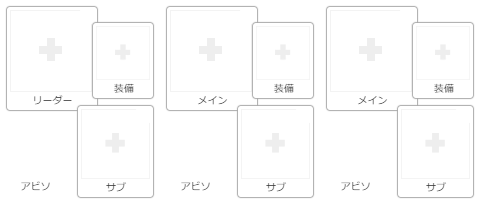
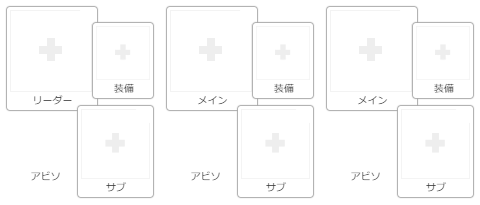
finished party planner

Changed region(s): [[0.7188, 0.8195, 0.8125, 0.9366], [0.375, 0.8195, 0.4688, 0.9366], [0.0312, 0.8195, 0.125, 0.9366]]

diff --git a/index.js b/index.js
@@ -66,6 +66,7 @@ function calcGauge(text){
     }
     var condition = "";
     var count = 0;
+    var counttarget = '';    
     var gauge = match[2];
     if (target == "own" || target == "leader"){
       var selfis = text.match(/f .* is .*(fire|water|wind|thunder|light|dark|human|sprite|beast|mecha|dragon|undead|youkai|plant|demon|aquatic).* character, when battle begins, .* skill gauge \+/);
@@ -87,16 +88,30 @@ function calcGauge(text){
     if (condition !==""){
       condition = condition.charAt(0).toUpperCase() + condition.slice(1);
     }    
-    if (text.includes('or every 3')){
-      count = 3;
+    var counttargets;
+    if (text.includes('or every')){
+      counttargets = text.match(/or every (\d) (fire|water|wind|thunder|light|dark|human|sprite|beast|mecha|dragon|undead|youkai|plant|demon|aquatic).* characters in the party, when battle begins, .* skill gauge \+/)
+      if (counttargets){
+        count = counttargets[1];                   
+        counttarget = counttargets[2];
+      }      
     }
-    if (text.includes('f there are 6')){
-      count = 6;
+    if (text.includes('f there are')){
+      counttarget = "";
+      counttargets = text.match(/f there are (\d) .*(fire|water|wind|thunder|light|dark|human|sprite|beast|mecha|dragon|undead|youkai|plant|demon|aquatic).* characters in the party, when battle begins, .* skill gauge \+/)
+      if (counttargets){
+        count = counttargets[1];                   
+        counttarget = counttargets[2];
+      }
     }
+    if (counttarget !==""){
+      counttarget = counttarget.charAt(0).toUpperCase() + counttarget.slice(1);
+    }    
     return {
       Target: target,
       Condition: condition,
       Every: count,      
+      EveryCond: counttarget,      
       IsMain: text.includes('[Main]'),
       Amount: gauge
     }
@@ -111,6 +126,7 @@ function calcMaxGauge(text){
     }
     var condition = "";
     var count = 0;
+    var counttarget = '';
     var gauge = match[2];
     if (target == "own" || target == "leader"){
       var selfis = text.match(/f .* is .*(fire|water|wind|thunder|light|dark|human|sprite|beast|mecha|dragon|undead|youkai|plant|demon|aquatic).* character, .* max skill gauge \+/);
@@ -132,16 +148,30 @@ function calcMaxGauge(text){
     if (condition !==""){
       condition = condition.charAt(0).toUpperCase() + condition.slice(1);
     }
-    if (text.includes('or every 3')){
-      count = 3;
+    var counttargets;
+    if (text.includes('or every')){
+      counttargets = text.match(/or every (\d) (fire|water|wind|thunder|light|dark|human|sprite|beast|mecha|dragon|undead|youkai|plant|demon|aquatic).* characters in the party, .* max skill gauge \+/);
+      if (counttargets){
+        count = counttargets[1];                   
+        counttarget = counttargets[2];           
+      }      
     }
-    if (text.includes('f there are 6')){
-      count = 6;
+    if (text.includes('f there are')){
+      counttarget = "";
+      counttargets = text.match(/f there are (\d) .*(fire|water|wind|thunder|light|dark|human|sprite|beast|mecha|dragon|undead|youkai|plant|demon|aquatic).* characters in the party, .* max skill gauge \+/);
+      if (counttargets){
+        count = counttargets[1];                   
+        counttarget = counttargets[2];       
+      }
     }
+    if (counttarget !==""){
+      counttarget = counttarget.charAt(0).toUpperCase() + counttarget.slice(1);
+    }        
     return {
       Target: target,
       Condition: condition,
       Every: count,
+      EveryCond: counttarget,
       IsMain: text.includes('[Main]'),
       Amount: gauge
     }
@@ -150,14 +180,13 @@ function calcMaxGauge(text){
 async function updateDB() {
 
   data = DB.getData('en');
-/*  dataja = DB.getData('en');
+  dataja = DB.getData('en');
   datazhtw = DB.getData('en');
-  var datajatemp = DB.getData('ja');*/
+  var datajatemp = DB.getData('ja');
   var datazhtwtemp = DB.getData('zh-TW');
 
-  /*await until(_ => data.chars && datajatemp.chars && datazhtwtemp.chars);*/
+  await until(_ => data.chars && datajatemp.chars && datazhtwtemp.chars);
 
-  await until(_ => data.chars && datazhtwtemp.chars);
   data.chars.forEach(function (i) {
     var itw = datazhtwtemp.chars.find(e => e.DevNicknames == i.DevNicknames)
     if (itw){i.InTaiwan = itw.InTaiwan;}
@@ -198,7 +227,7 @@ async function updateDB() {
       AbilitySoul:calcMaxGauge(i.AbilitySoul)
     }        
   });  
-/*
+
   dataja.chars.forEach(function (i) {
     var ijp = datajatemp.chars.find(e => e.DevNicknames == i.DevNicknames)
     if (ijp){
@@ -297,7 +326,7 @@ async function updateDB() {
         i.Obtain = i.Obtain.replace('Limited','限定');
       }    
     }
-  });  */
+  });  
 }
 updateDB();
 const {
@@ -409,15 +438,21 @@ app.get('/comp/:w', function (req, res) {
   var url = req.params.w.replace('.png', '');
   var lang = '';
   var advanced;
+  var exsraw;
   if (url.indexOf('.') > 0) {
     lang = '_' + url.split('.')[1];
     url = url.split('.')[0];
   }
   var height = 205;   
+  var top = 0;
+  if (url.indexOf('!') > 0) {  
+    exsraw = url.split('!')[1];
+    height+=10;
+    top+=10;    
+  }   
   if (url.indexOf('@') > 0) {
     advanced = url.split('@')[1]; 
     url = url.split('@')[0];
-    height+=24;    
   } 
   const canvas = createCanvas(480, height);
   const ctx = canvas.getContext('2d');
@@ -427,7 +462,7 @@ app.get('/comp/:w', function (req, res) {
   var count = 0;
   if (lang==='_') lang='';
   loadImage('./public/img/party_full' + lang + '.png').then((bg) => {
-    ctx.drawImage(bg, 0, 0, 480, 205);
+    ctx.drawImage(bg, 0, top, 480, 205);
     for (i = 0; i < units.length; i++) {
       var imageUrl = '';
       if (i < 6) {
@@ -467,16 +502,16 @@ app.get('/comp/:w', function (req, res) {
             case 7:
             case 9:
             case 11:
-              x = 13 + ((count - 7) / 2) * 160;
-              y = 135;
+              x = 23 + ((count - 7) / 2) * 160;
+              y = 122;
               width = 44;
               break;
             default:
               break;
           }
-          ctx.drawImage(image, x, y, width, width);
+          ctx.drawImage(image, x, y+top, width, width);
           count++;
-          if (count >= units.length && !advanced) {
+          if (count >= units.length && !exsraw) {
             sendimage(canvas,res);
           }
         })
@@ -486,7 +521,6 @@ app.get('/comp/:w', function (req, res) {
     }
     if (advanced) {
       const mb2sraw = advanced.split('!')[0];
-      const exsraw = advanced.split('!')[1];
       var mbcount = 0;      
       ctx.font = '11px Arial';
       if (mb2sraw){
@@ -508,9 +542,9 @@ app.get('/comp/:w', function (req, res) {
                y = 191;break;
             }
             ctx.fillStyle = '#fff';            
-            ctx.fillRect(x-20, y-10, 60, 12);
+            ctx.fillRect(x-20, y+top-10, 60, 12);
             ctx.fillStyle = '#333';
-            ctx.fillText(txt,x,y);
+            ctx.fillText(txt,x,y+top);
           }
           
         }
@@ -523,29 +557,26 @@ app.get('/comp/:w', function (req, res) {
             loadImage(imageUrl).then((image) => {
               var x, y;
               var width = 24;
-              x = 24 + (Math.floor(mbcount / 4)) * 160;
-              y = 201;
+              x = 102 + (Math.floor(mbcount / 4)) * 160 + (mbcount%2)*30;
+              y = 4;
+              ctx.fillStyle = '#fff';
               switch (mbcount) {
                 case 2: 
-                case 6: 
-                case 10:                 
-                x += 30;
-                break;
-                case 1: 
-                case 5: 
-                case 9:                 
-                x += 60;
-                break;
                 case 3: 
+                case 6: 
                 case 7: 
+                case 10: 
                 case 11:                 
-                x += 90;
+                x -= 86;
+                y += 180;
                 break;
-
+              }
+              if (mbcount%4==2){
+                ctx.fillRect(x-10, y-10, 60, 30);              
               }
               ctx.drawImage(image, x, y, width, width);
               mbcount++;
-              if (count+mbcount >= units.length+exs.length) {
+              if (mbcount >= exs.length) {
                 sendimage(canvas,res);
               }              
             });

diff --git a/public/js/eliya.tracker.js b/public/js/eliya.tracker.js
@@ -63,6 +63,7 @@ $(document).ready(function () {
   });
 
   socket.on('chars', function (data) {
+    console.log(data);
     if (!charLoaded) {
       $('#chars .charList').html("");
       data.forEach(function (unit) {
@@ -1043,7 +1044,7 @@ $(document).ready(function () {
       var gauge = $(this).data("TotalGauge")+$(this).find(".ex29").length*25;
       var maxgauge = $(this).data("TotalMaxGauge")+$(this).find(".ex2a").length*7.5;
       if (maxgauge > 200) maxgauge=200;
-      $(this).find(".totalSkillGauge span").text(gauge+'%/'+maxgauge+'%'); 
+      $(this).find(".totalSkillGauge span").text(Math.floor(gauge)+'%/'+Math.floor(maxgauge)+'%'); 
 
     });
   }
@@ -1058,7 +1059,7 @@ $(document).ready(function () {
     var mains = [$("#unison1").find('.main').data('DevNicknames'),$("#unison2").find('.main').data('DevNicknames'),$("#unison3").find('.main').data('DevNicknames')];
     if (gauges){
       for (const [key, gauge] of Object.entries(gauges)) {
-        if (key == 'LeaderBuff' && index!==1) continue;
+        if (key == 'LeaderBuff' && (index!==1 || slot!=='main')) continue;
         if ((slot!='soul' && key == 'AbilitySoul') || (slot=='soul' && key != 'AbilitySoul')) continue;
         if (gauge.IsMain && slot=='sub') continue;
         var mult = 1;        
@@ -1066,7 +1067,11 @@ $(document).ready(function () {
           var abilv = $("#unison"+index).find("."+slot).data("mb2s")[parseInt(key.replace('Ability',''))-4];
           if (abilv == 0) continue;
           mult = 1 - (0.5 * (6-abilv)/5);
-        } 
+        }
+        if (gauge.Every > 0){
+          var targetNum = $(".unison .char.Attribute"+gauge.EveryCond).length+$(".unison .char.Race"+gauge.EveryCond).length;
+          mult = 0 + Math.floor(targetNum/gauge.Every);
+        }
         switch (gauge.Target){
           case "own":
             if ((gauge.Condition=='') || checkCondition(mains[index-1],gauge.Condition)){
@@ -1097,7 +1102,7 @@ $(document).ready(function () {
     }
     if (maxgauges){
       for (const [key, gauge] of Object.entries(maxgauges)) {
-        if (key == 'LeaderBuff' && index!==1) continue;
+        if (key == 'LeaderBuff' && (index!==1 || slot!=='main')) continue;
         if ((slot!='soul' && key == 'AbilitySoul') || (slot=='soul' && key != 'AbilitySoul')) continue;        
         if (gauge.IsMain && slot=='sub') continue;
         var mult = 1;        
@@ -1106,6 +1111,10 @@ $(document).ready(function () {
           if (abilv == 0) continue;
           mult = 1 - (0.5 * (6-abilv)/5);
         } 
+        if (gauge.Every > 0){
+          var targetNum = $(".unison .char.Attribute"+gauge.EveryCond).length+$(".unison .char.Race"+gauge.EveryCond).length;
+          mult = 0 + Math.floor(targetNum/gauge.Every);
+        }        
         switch (gauge.Target){
           case "own":
             if ((gauge.Condition=='') || checkCondition(mains[index-1],gauge.Condition)){

diff --git a/public/css/client.css b/public/css/client.css
@@ -676,7 +676,7 @@ strong {
   position: absolute;
   left: 50%;
   transform: translate(-50%,0);
-  background:rgba(48,48,48,0.8);
+  background:rgba(48,48,48,0.9);
   border:1px solid #999;
   color:#fff;
   width: 100%;
@@ -721,12 +721,16 @@ strong {
   background-size: contain;
   background-repeat: no-repeat;
   position: relative;
+  cursor:pointer;
 }
 .ex span{
   position: absolute;
-  line-height: 24px;
+  line-height: 14px;
   left: 30px;
   top: 0px;
+  text-align: left;
+  font-size: 11px;
+  padding-right:5px;
 }
 .ex10{background-image: url(../img/assets/sprites/ex/ex10.png);}
 .ex11{background-image: url(../img/assets/sprites/ex/ex11.png);}
@@ -839,6 +843,7 @@ strong {
   opacity: 0;
   transition: 0.5s all;
   pointer-events: none;
+  line-height: 10px;
 }
 .totalSkillGauge{
   left:auto;
